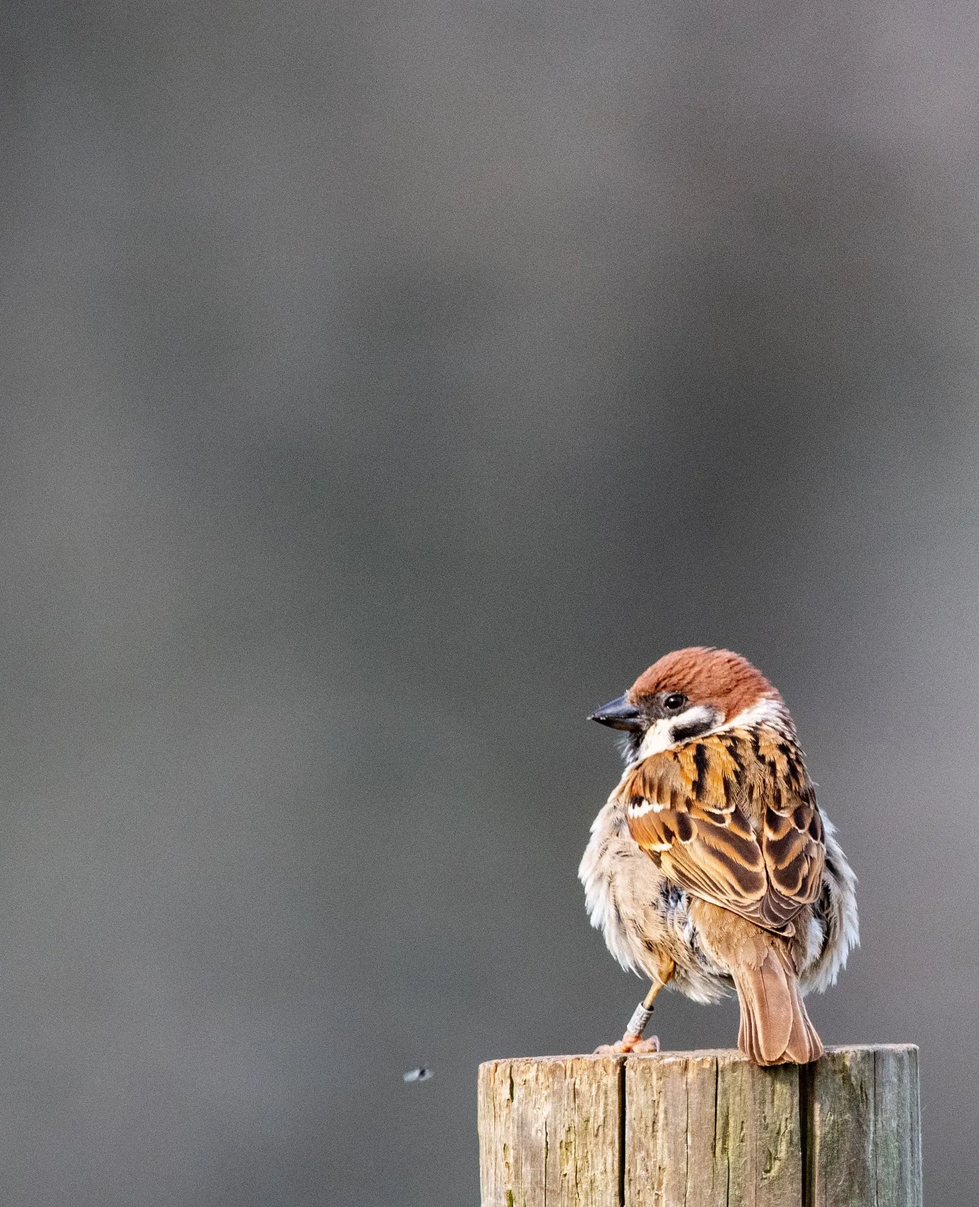
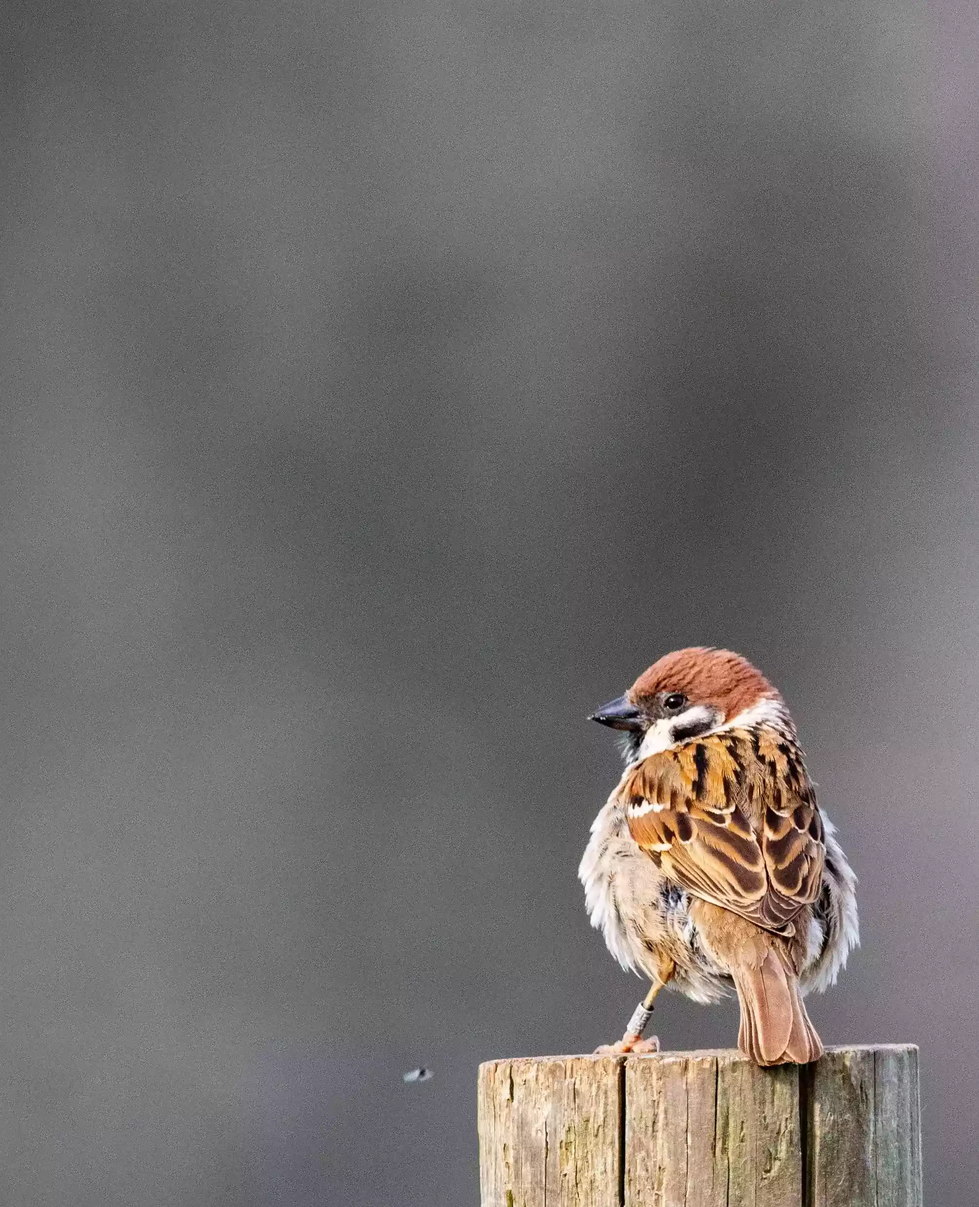
trying optimizations

diff --git a/src/components/Workshop.jsx b/src/components/Workshop.jsx
@@ -1,8 +1,8 @@
 import * as React from "react";
 import workshop from "../images/workshop.webp";
-import workshopIcon from "../images/workshop.png";
-import people from "../images/people.png";
-import nest from "../images/nest.png";
+import workshopIcon from "../images/workshop_graphic.webp";
+import people from "../images/people_graphic.webp";
+import nest from "../images/nest_graphic.webp";
 import { AnchorLink } from "gatsby-plugin-anchor-links";
 
 const Workshop = () => {

diff --git a/src/hi-components/Workshop.jsx b/src/hi-components/Workshop.jsx
@@ -1,8 +1,8 @@
 import * as React from "react";
 import workshop from "../images/workshop.webp";
-import workshopIcon from "../images/workshop.png";
-import people from "../images/people.png";
-import nest from "../images/nest.png";
+import workshopIcon from "../images/workshop_graphic.webp";
+import people from "../images/people_graphic.webp";
+import nest from "../images/nest_graphic.webp";
 import { AnchorLink } from "gatsby-plugin-anchor-links";
 
 const Workshop = () => {

diff --git a/src/components/Product.jsx b/src/components/Product.jsx
@@ -6,7 +6,7 @@ import gum from "../images/ingredients/gum.webp";
 import yarn from "../images/ingredients/yarn.webp";
 import jute from "../images/ingredients/jute.webp";
 import coir from "../images/ingredients/coir.webp";
-import bag from "../images/shipping-bag.png";
+import bag from "../images/shipping-bag.webp";
 import { toast } from "wc-toast";
 
 const Product = () => {

diff --git a/src/hi-components/Product.jsx b/src/hi-components/Product.jsx
@@ -6,7 +6,7 @@ import gum from "../images/ingredients/gum.webp";
 import yarn from "../images/ingredients/yarn.webp";
 import jute from "../images/ingredients/jute.webp";
 import coir from "../images/ingredients/coir.webp";
-import bag from "../images/shipping-bag.png";
+import bag from "../images/shipping-bag.webp";
 import { toast } from "wc-toast";
 
 const Product = () => {

diff --git a/postcss.config.js b/postcss.config.js
@@ -1,6 +1,7 @@
 module.exports = {
-  plugins: {
-    tailwindcss: {},
-    autoprefixer: {},
-  },
-}
+    plugins: {
+        tailwindcss: {},
+        autoprefixer: {},
+        ...(process.env.NODE_ENV === "production" ? { cssnano: {} } : {}),
+    },
+};
